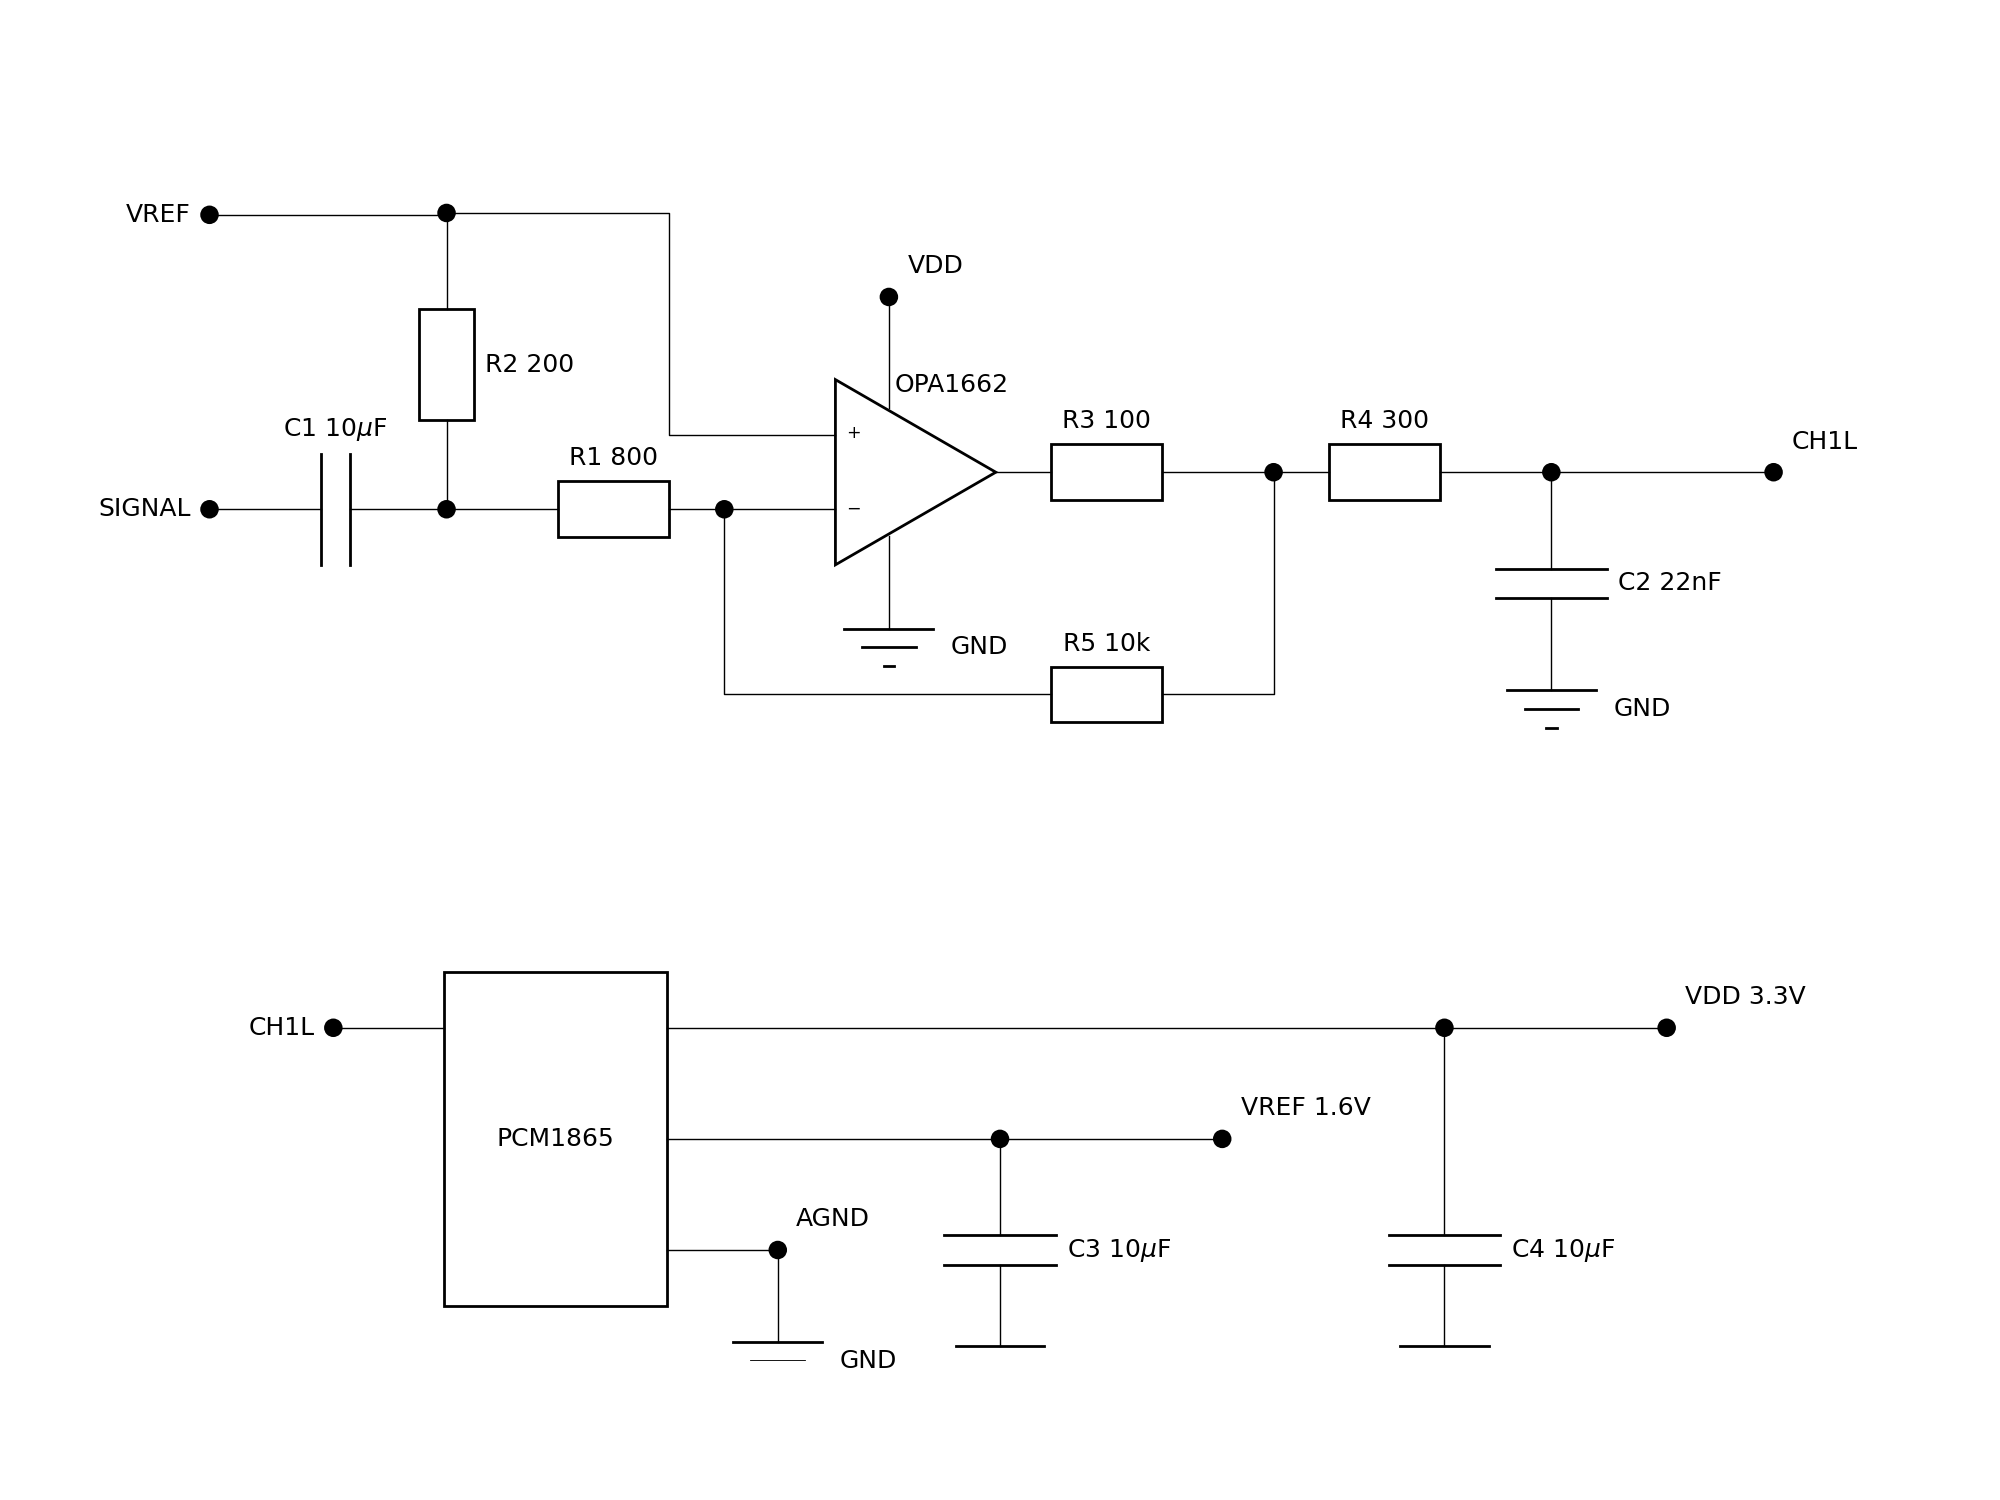
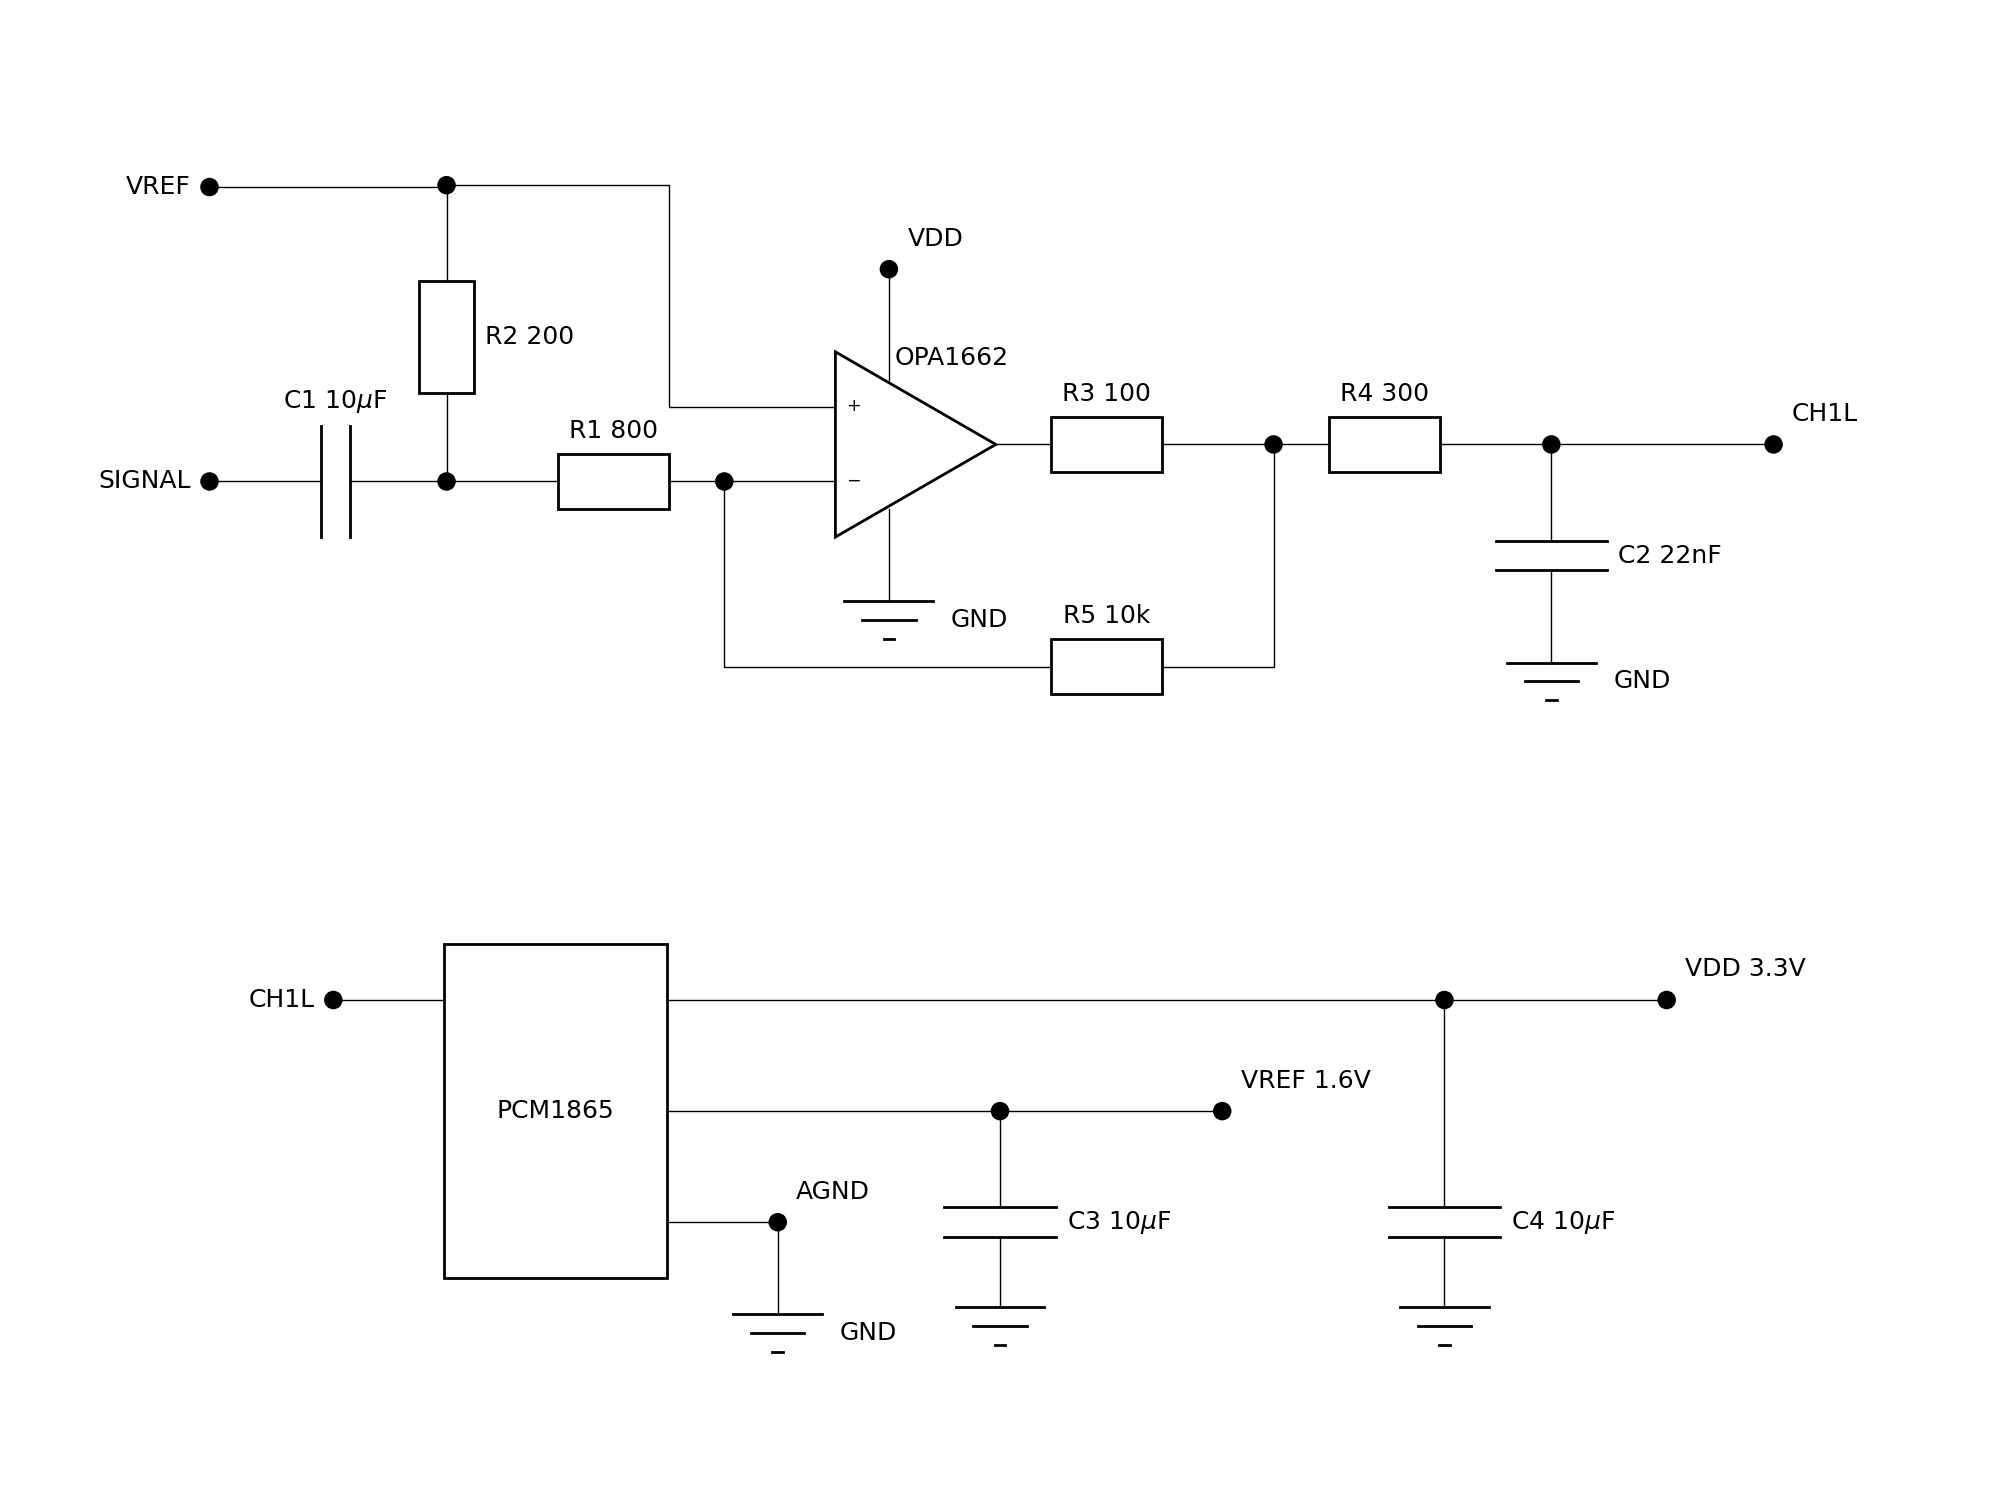
fixed preamp layout

diff --git a/R4.0/preamp.py b/R4.0/preamp.py
@@ -58,7 +58,7 @@ vdd = pt.Pos(6, 0)
 nvc = ax.node(vdd.right(7))
 nvdd = ax.node(nvc.right(2), 'VDD 3.3V')
 c4b, c4t = ax.capacitance_v(nvc.down(2), 'C4 10$\mu$F')
-gnd5 = ax.ground(c4b.down(0.9))
+gnd5 = ax.ground(c4b.down(0.8))
 ax.connect((vdd, nvc, nvdd))
 ax.connect((gnd5, c4b, None, c4t, nvc))
 
@@ -66,7 +66,7 @@ vref = pt.Pos(6, -1)
 nrc = ax.node(vref.right(3))
 nvref = ax.node(nrc.right(2), 'VREF 1.6V')
 c3b, c3t = ax.capacitance_v(nrc.down(1), 'C3 10$\mu$F')
-gnd4 = ax.ground(c3b.down(0.9))
+gnd4 = ax.ground(c3b.down(0.8))
 ax.connect((vref, nrc, nvref))
 ax.connect((gnd4, c3b, None, c3t, nrc))
 
@@ -76,7 +76,7 @@ gnd3 = ax.ground(ngnd.down(1), 'GND')
 ax.connect((gnd3, ngnd, agnd))
 
 ax.set_xlim(0, 18)
-ax.set_ylim(-3, 8)
+ax.set_ylim(-3.5, 8)
 ax.set_aspect('equal')
 fig.savefig()
 plt.show()
